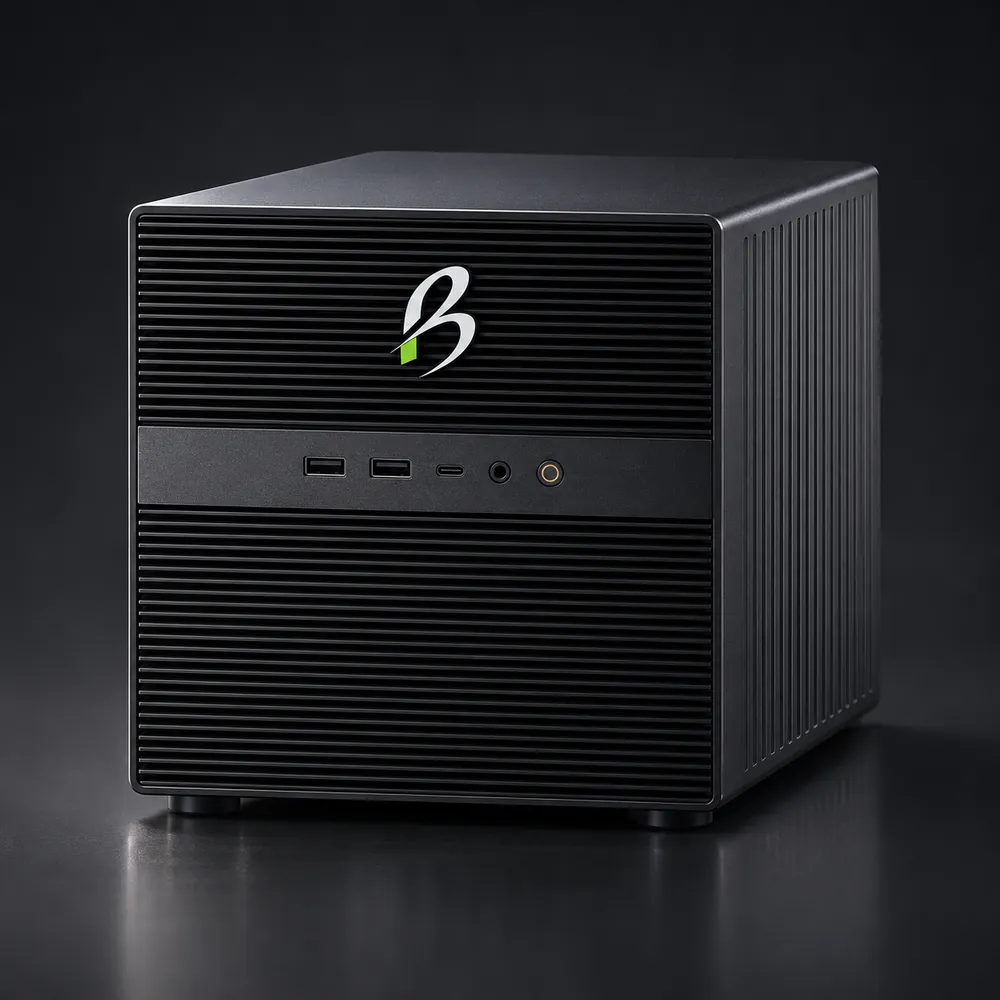
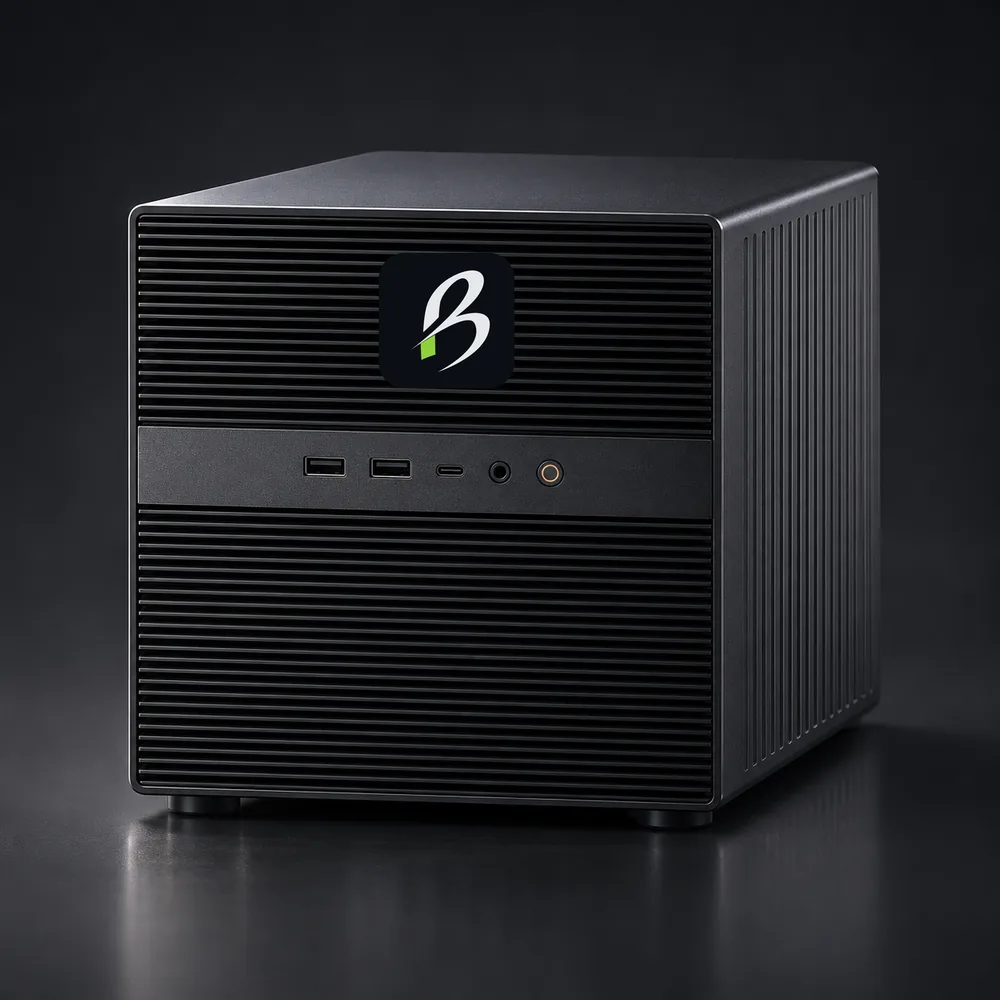
Node: four proposed configurations, official B on renders, readability (#9)
- Equipment is grouped under Node Edge, Node Business, Node Vault and
  Node Compute, each labelled a proposed configuration, with plain answers
  to what it does, who needs it, what runs locally, what needs more
  compute, what BullNet manages and what stays with the customer
- Each build carries its own evidence: tested at BullNet, design concept
  or proposed. "Tested at BullNet" is defined on the page
- The generated B in both renders is replaced with the official mark from
  public/assets/brand; renders stay captioned as renders
- The Business build names the low-profile SFF form of the 24GB card,
  the version the chassis can power and fit
- Node Vault is distinguished from The Vault, and the page says drive
  redundancy is not a backup
- Larger descriptive text and labels inside the Node section

Claude-Session: https://claude.ai/code/session_01PC1DemucfMcvEo4VQmWvvU

Changed region(s): [[0.372, 0.248, 0.527, 0.403]]

diff --git a/content/node.ts b/content/node.ts
@@ -47,48 +47,104 @@ export const node = {
       approve: 'Each job that leaves the building, before it leaves.',
     },
   ],
-  gear: [
+  /**
+   * Four proposed configurations. None is a finalized or certified product.
+   * Each build carries its own evidence: tested at BullNet (founder-operated equipment), development hardware, or design concept.
+   */
+  configs: [
     {
-      name: 'Edge box',
-      status: 'In use at BullNet',
-      what: 'An NVIDIA Jetson Orin Nano developer kit. A small desktop unit that runs small models on site. It is development hardware, and it does not host the office workspace.',
-      img: { src: '/assets/node/jetson-orin-nano-dev-kit.webp', alt: 'Photograph of an NVIDIA Jetson Orin Nano developer kit on a workbench cutting mat: a small circuit board with a fan-cooled module, USB ports, a network port and a display port', width: 1400, height: 1050 },
-      caption: 'Photograph of the developer kit on our bench.',
+      name: 'Node Edge',
+      line: 'A compact on-site unit for a small team.',
+      does: 'Light local services, approved agents and connectivity.',
+      who: 'A small contractor or office that wants its documents and light AI work on its own premises.',
+      local: 'Document search, small models and light agents.',
+      more: 'Larger models and heavy document processing.',
+      manages: 'Setup, updates, monitoring and agent configuration.',
+      yours: 'Physical security, power, internet and user approvals.',
+      note: '',
+      builds: [
+        {
+          name: 'Jetson Orin Nano developer kit',
+          evidence: 'Tested at BullNet',
+          what: 'An NVIDIA developer kit that runs small models on site. It is development hardware, and it does not host the office workspace.',
+          img: { src: '/assets/node/jetson-orin-nano-dev-kit.webp', alt: 'Photograph of an NVIDIA Jetson Orin Nano developer kit on a workbench cutting mat: a small circuit board with a fan-cooled module, USB ports, a network port and a display port', width: 1400, height: 1050 },
+          caption: 'Photograph of the developer kit on our bench.',
+        },
+        {
+          name: 'BullNet Edge printed case',
+          evidence: 'Design concept',
+          what: 'A case we design and 3D print for the edge unit, with a top fan and an open port bay. The camera and voice add-ons shown are concepts.',
+          img: { src: '/assets/node/edge-case-concept.webp', alt: 'Concept render titled BullNet Edge Gold: a 3D-printed case holding a small single-board computer, with a top fan carrying the BullNet B and an open bay showing its USB, network and power ports. Two smaller views show a camera and a microphone attached.', width: 1400, height: 788 },
+          caption: 'Concept render. Accessory fit to be verified.',
+        },
+        {
+          name: 'ZimaBoard 2 with a low-profile graphics card',
+          evidence: 'Tested at BullNet',
+          what: 'A single-board server with drives attached and an NVIDIA T1000 card. Documents, light agents and small models.',
+          img: null,
+          caption: '',
+        },
+      ],
     },
     {
-      name: 'Printed case',
-      status: 'In use at BullNet',
-      what: 'A case we design and 3D print for the edge box, with a top fan and an open port bay. The camera and voice add-ons shown are concepts.',
-      img: { src: '/assets/node/edge-case-concept.webp', alt: 'Concept render titled BullNet Edge Gold: a 3D-printed case holding a small single-board computer, with a top fan carrying the BullNet B and an open bay showing its USB, network and power ports. Two smaller views show a camera and a microphone attached.', width: 1400, height: 788 },
-      caption: 'Concept render of our printed case. Accessory fit to be verified.',
+      name: 'Node Business',
+      line: 'One box for computing, storage and applications.',
+      does: 'Brings computing, document storage and applications together in one on-site system.',
+      who: 'A growing team that wants one system on its own premises.',
+      local: 'Document services, storage, agents and mid-size models.',
+      more: 'The largest models and bulk processing.',
+      manages: 'Setup, updates, monitoring, storage layout and agent configuration.',
+      yours: 'Physical security, power, internet, user approvals and drive replacement decisions.',
+      note: '',
+      builds: [
+        {
+          name: 'ZimaCube Pro with a 24GB graphics card',
+          evidence: 'Tested at BullNet',
+          what: 'Six drive bays and an NVIDIA RTX PRO 4000 Blackwell card in its low-profile SFF form, the version this chassis can power and fit.',
+          img: { src: '/assets/node/business-cube-concept.webp', alt: 'Illustrative render of a black cube-shaped server with a ribbed front panel, front ports and a BullNet badge', width: 1000, height: 1000 },
+          caption: 'Illustrative render. Not a photograph of the unit.',
+        },
+      ],
     },
     {
-      name: 'Business cube',
-      status: 'In use at BullNet',
-      what: 'A ZimaCube Pro: six drive bays, with a 24GB NVIDIA professional graphics card fitted. Computing, storage and local models in one box.',
-      img: { src: '/assets/node/business-cube-concept.webp', alt: 'Illustrative render of a black cube-shaped server with a ribbed front panel, front ports and the BullNet B', width: 1000, height: 1000 },
-      caption: 'Illustrative render. Not a photograph of the unit.',
+      name: 'Node Vault',
+      line: 'Storage for business documents and backups.',
+      does: 'Holds documents and backups in one organized place, with controlled access.',
+      who: 'A business with years of records that need one protected home.',
+      local: 'File storage, backup and access control. It does not run AI models.',
+      more: 'All AI work, which runs on another Node or on BullNet Infrastructure.',
+      manages: 'Setup, access rules, the backup schedule and restore tests.',
+      yours: 'Physical security, and deciding what is kept and for how long.',
+      note: 'Drive redundancy is not a backup, so a second copy is kept somewhere else. Node Vault is storage hardware. The Vault is the policy that governs who may use what.',
+      builds: [
+        {
+          name: 'Network storage unit',
+          evidence: 'Proposed',
+          what: 'A multi-drive network storage unit. No unit has been tested at BullNet yet.',
+          img: null,
+          caption: '',
+        },
+      ],
     },
     {
-      name: 'Compact server',
-      status: 'In use at BullNet',
-      what: 'A ZimaBoard 2 single-board server with drives attached, run with a low-profile NVIDIA graphics card. Documents, light agents and small models for a small team.',
-      img: null,
-      caption: '',
-    },
-    {
-      name: 'GPU build',
-      status: 'In use at BullNet',
-      what: 'The same compact board with a full-size RTX 5080 graphics card on its own power supply, for heavier local model work.',
-      img: null,
-      caption: '',
-    },
-    {
-      name: 'Storage',
-      status: 'Proposed configuration',
-      what: 'A network storage unit for documents and backups. It stores and protects information. It does not run AI models, and drive redundancy on its own is not a backup.',
-      img: null,
-      caption: '',
+      name: 'Node Compute',
+      line: 'Dedicated graphics hardware for heavier AI work.',
+      does: 'Runs larger models on site at useful speed.',
+      who: 'A business whose document volume or model size is too much for a small box.',
+      local: 'Larger models and the agents that use them.',
+      more: 'Work beyond what the installed card can carry.',
+      manages: 'Setup, model deployment, updates and monitoring.',
+      yours: 'Physical security, and power and cooling for the room.',
+      note: '',
+      builds: [
+        {
+          name: 'ZimaBoard 2 with an RTX 5080',
+          evidence: 'Tested at BullNet',
+          what: 'The compact board with a full-size graphics card on its own power supply.',
+          img: null,
+          caption: '',
+        },
+      ],
     },
   ],
   workflow: {

diff --git a/components/architecture/NodeSection.tsx b/components/architecture/NodeSection.tsx
@@ -10,6 +10,8 @@ import { NodeDiagram } from '@/components/architecture/NodeDiagram';
 export function NodeSection() {
   const [fi, setFi] = useState(0);
   const [di, setDi] = useState(0);
+  const [ci, setCi] = useState(0);
+  const c = node.configs[ci];
   const f = node.functions[fi];
   const d = site.deploy[di];
   return (
@@ -23,19 +25,35 @@ export function NodeSection() {
           <p className="lede">A Node is optional. Many offices run entirely on compute BullNet hosts privately. We recommend one only when keeping the work on your premises earns its cost.</p></header>
         <p className="pull" style={{ maxWidth: '30ch' }}>The Node is where the work runs. The Office is where your people work.</p>
 
-        {/* 02 The physical appliance */}
+        {/* 02 The equipment: four proposed configurations */}
         <div className="journey">
           <div className="gap-s"><p className="mono brass">02 The equipment</p><h3>One business. The right Node.</h3>
-            <p>We pencil the equipment before we prescribe it. This is equipment BullNet operates itself, shown as a baseline and not a catalogue. Your Node is built to suit: it could be one of these, something larger, or hardware you already own.</p></div>
-          <ul className="gear">
-            {node.gear.map((g) => (
-              <li key={g.name} className={g.img ? 'has-img' : undefined}>
-                {g.img && (<figure className="shot"><img src={g.img.src} alt={g.img.alt} width={g.img.width} height={g.img.height} loading="lazy" decoding="async" /><figcaption className="mono">{g.caption}</figcaption></figure>)}
-                <div className="gap-s"><span className="tag b">{g.status}</span><h3>{g.name}</h3><p>{g.what}</p></div>
-              </li>
-            ))}
-          </ul>
-          <p className="steel">No prices, performance figures, certifications or availability dates are stated. Each configuration is specified and tested for the customer before it is relied on. Product names belong to their makers.</p>
+            <p>We pencil the equipment before we prescribe it. These are four proposed configurations, built from equipment BullNet runs itself. Your Node is built to suit: it could be one of these, something larger, or hardware you already own.</p></div>
+          <Picker label="Node configurations" value={ci} onChange={setCi} items={node.configs.map((x) => x.name)} />
+          <div className="grid2">
+            <div className="panel"><div className="ph mono"><span>{c.name}</span><span className="brass">Proposed configuration</span></div>
+              <div className="pb gap-s" aria-live="polite">
+                <p className="cfg-line">{c.line}</p>
+                <dl className="kv">
+                  <dt>What it does</dt><dd>{c.does}</dd>
+                  <dt>Who needs it</dt><dd>{c.who}</dd>
+                  <dt>Runs locally</dt><dd>{c.local}</dd>
+                  <dt>Needs more compute</dt><dd>{c.more}</dd>
+                  <dt>BullNet manages</dt><dd>{c.manages}</dd>
+                  <dt>Stays with you</dt><dd>{c.yours}</dd>
+                </dl>
+                {c.note && (<p className="note">{c.note}</p>)}
+              </div></div>
+            <ul className="gear" aria-label={`${c.name}: builds and evidence`}>
+              {c.builds.map((g) => (
+                <li key={g.name}>
+                  {g.img && (<figure className="shot"><img src={g.img.src} alt={g.img.alt} width={g.img.width} height={g.img.height} decoding="async" /><figcaption className="mono">{g.caption}</figcaption></figure>)}
+                  <div className="gap-s"><span className="tag b">{g.evidence}</span><h3>{g.name}</h3><p>{g.what}</p></div>
+                </li>
+              ))}
+            </ul>
+          </div>
+          <p className="steel">“Tested at BullNet” means we run it in our own operation. It is not a customer deployment or a performance claim. No prices, performance figures, certifications or availability dates are stated. Each configuration is specified and tested for the customer before it is relied on. Product names belong to their makers.</p>
         </div>
 
         {/* 03 What it does */}

diff --git a/styles/globals.css b/styles/globals.css
@@ -309,22 +309,28 @@ footer a{text-underline-offset:3px}
 .grid2>*,.gap>*,.gap-s>*{min-width:0}
 
 /* Node section: equipment list, workflow steps, and section-scoped readability to match the example section. */
-#node .steel{color:#A9B3BD;font-size:.95rem}
-#node .mono.brass{font-size:.76rem}
-#node .stages p,#node .steps p,#node .gear p{font-size:.96rem;color:#C9CFD5;line-height:1.5}
-#node dl.kv dt{font-size:.74rem;color:#A9B3BD}
-#node dl.kv dd{font-size:1rem}
+#node .steel{color:#B4BDC6;font-size:1rem}
+#node .mono.brass{font-size:.82rem}
+#node .stages p,#node .steps p,#node .gear p{font-size:1.02rem;color:#D3D8DC;line-height:1.55}
+#node dl.kv dt{font-size:.8rem;color:#B4BDC6}
+#node dl.kv dd{font-size:1.04rem}
 #node dl.kv .approve{color:var(--platinum)}
 #node dl.kv dd.approve{border-left:2px solid var(--platinum);padding-left:12px;font-weight:500}
 #node .note{font-size:1.05rem;color:var(--platinum)}
 #node .journey .stages div{align-content:start}
-.gear{list-style:none;margin:0;padding:0;display:grid;grid-template-columns:repeat(3,minmax(0,1fr));gap:1px;background:var(--line);border:1px solid var(--line)}
+.gear{list-style:none;margin:0;padding:0;display:grid;grid-template-columns:minmax(0,1fr);gap:1px;background:var(--line);border:1px solid var(--line)}
 .gear li{background:var(--obsidian);padding:18px;display:grid;gap:14px;align-content:start;min-width:0}
 .gear .shot img{aspect-ratio:16/9;object-fit:cover;background:#0E141A}
-.gear .shot figcaption{font-size:.72rem;color:#A9B3BD;letter-spacing:.06em;text-transform:uppercase}
-@media(max-width:900px){.gear{grid-template-columns:repeat(2,minmax(0,1fr))}}
-@media(max-width:620px){.gear{grid-template-columns:minmax(0,1fr)}}
+.gear .shot figcaption{font-size:.78rem;color:#B4BDC6;letter-spacing:.06em;text-transform:uppercase}
 .steps{list-style:none;margin:0;padding:0;display:grid;grid-template-columns:repeat(4,minmax(0,1fr));gap:1px;background:var(--line);border:1px solid var(--line)}
 @media(max-width:900px){.steps{grid-template-columns:repeat(2,minmax(0,1fr))}}
 @media(max-width:480px){.steps{grid-template-columns:minmax(0,1fr)}}
 .steps li{background:var(--obsidian);padding:18px;display:grid;gap:6px;align-content:start}
+
+/* Node section, readability pass. */
+#node .journey>.gap-s>p,#node .lede{font-size:1.08rem}
+#node .tag{font-size:.72rem}
+#node .pick button{font-size:.78rem}
+#node .panel .ph{font-size:.8rem;color:#B4BDC6}
+#node .swipe{font-size:.78rem}
+.cfg-line{font-family:var(--display);font-stretch:112%;font-weight:700;font-size:1.2rem;line-height:1.25;color:var(--platinum)}

diff --git a/docs/security/trust-rules.md b/docs/security/trust-rules.md
@@ -30,6 +30,8 @@ These are mandatory for every change to copy, content config or demos.
 | Proposed capability | Designed, and validated per deployment before it is relied on. |
 | Illustrative demonstration | Example data. Not a client, a transaction or a live service. |
 | Design concept | Physical or visual concept. No specifications implied. |
+| Tested at BullNet | Equipment BullNet runs in its own operation, on the founder's statement. Not a customer deployment and not a performance claim. Used only inside the Node section. |
+| Proposed configuration | A Node configuration that is not a finalized or certified product. |
 
 ## Status vocabulary (Defendable)
 `MATHEMATICALLY VERIFIED`, `EVIDENCE SUPPORTED`, `INCONCLUSIVE`, `FAILED`, `REQUIRES HUMAN REVIEW`. Status is always written in words. Colour is added on top and is never the only signal.
